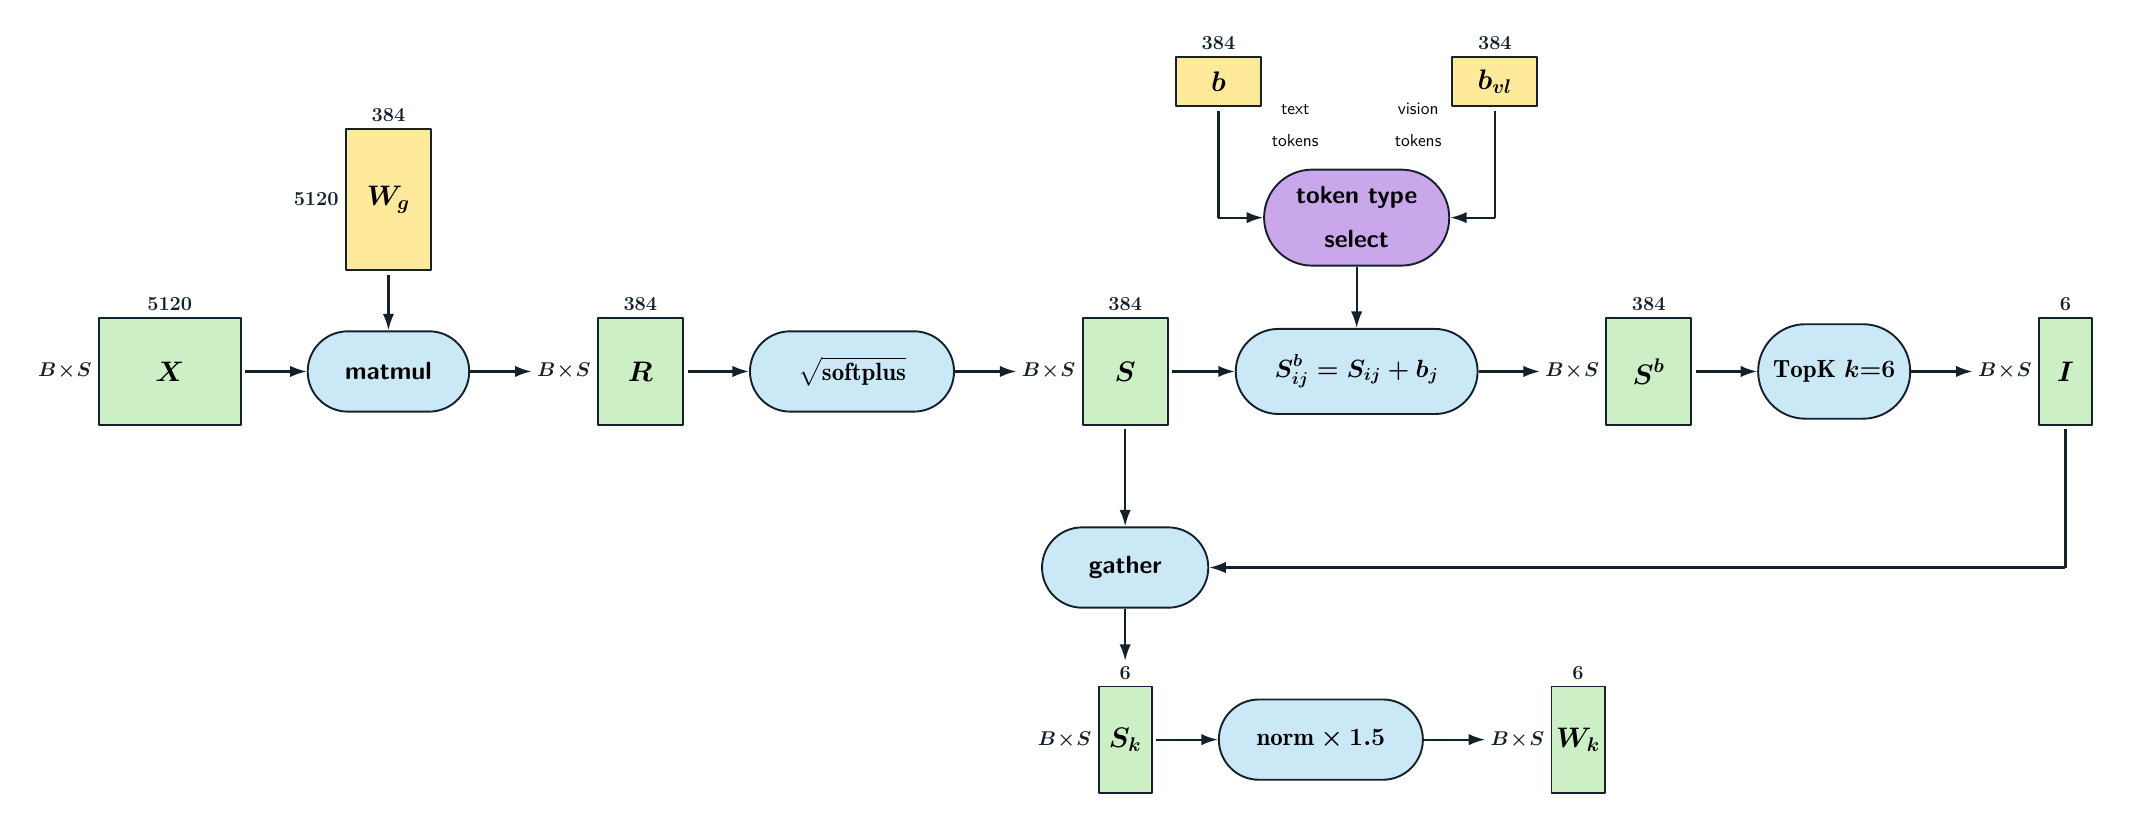
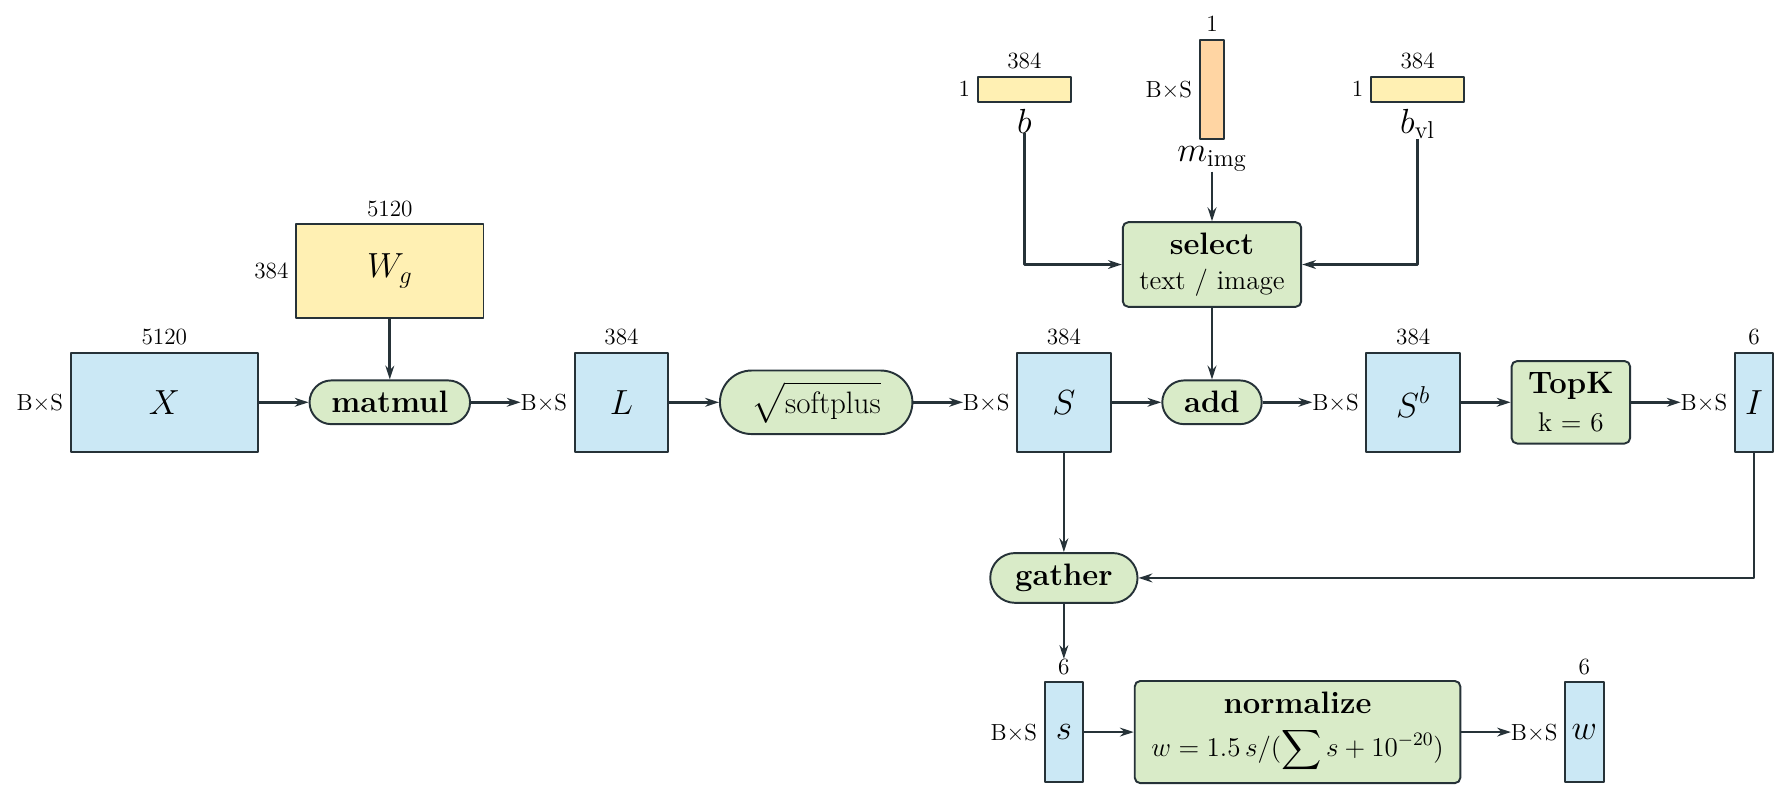
Replace Layer 0 diagrams with approved Python API figures

Changed region(s): [[0.0, 0.0312, 1.0, 0.593], [0.4913, 0.8115, 0.9213, 0.9988], [0.4913, 0.6242, 0.9827, 0.7803]]

diff --git a/docs/models/deepseek-v4.1-flash/02-layer0.md b/docs/models/deepseek-v4.1-flash/02-layer0.md
@@ -2,7 +2,7 @@
 title: Layer 0：从四路残差到局部注意力与 MoE
 model: DeepSeek-V4.1-Flash
 status: published
-updated: 2026-10-14
+updated: 2026-11-04
 order: 2
 ---
 
@@ -15,6 +15,8 @@ order: 2
 $B$ 表示 batch，$S$ 表示本次处理的 token 数，$\mathrm{BxS}=B\times S$ 表示合并后的 token 维。Attention 仍按各自会话计算。
 
 ![图 1：Layer 0 总览](assets/01_layer0_overview.png)
+
+图 1 中蓝色表示数据张量，浅绿色表示计算步骤；粗线表示四路残差的整体传递，细线表示单路数据或系数传递。
 
 Layer 0 先计算 Attention，再计算 MoE；两个子层各有独立的一套 mHC。初始四路来自同一份 embedding，整体形状为 `[BxS,4,5120]`，首次 pre 为 `[1,0,0,0]`。
 
@@ -66,8 +68,6 @@ $X$ 提供投影内容，$r$ 按行广播，对投影结果逐行缩放。
 
 ### 2.2 生成 pre、post、comb
 
-![图 3：生成 pre、post、comb](assets/03_mhc_coefficient_generation.png)
-
 $M$ 以及由它生成的 pre、post、comb 都是随输入变化的动态值。下面的 $s$、$b$ 是训练得到的模型参数，对所有 token 共用；固定常数由算法给定。
 
 | 对象 | 来源与含义 |
@@ -81,6 +81,10 @@ $\sigma$ 为 Sigmoid：
 $$
 \sigma(x)=\frac{1}{1+e^{-x}}
 $$
+
+![图 3.1：生成 pre 与 post](assets/03_1_mhc_pre_post.png)
+
+图 3.1 中，$T$ 表示乘缩放系数、加偏置后的中间结果，$U$ 表示 Sigmoid 的输出；下标区分 pre、post 两条分支。$k=2.0$ 是固定常数，不参与训练。
 
 #### 生成 pre
 
@@ -121,6 +125,10 @@ $$
 $$
 
 #### 生成 comb
+
+![图 3.2：生成 comb](assets/03_2_mhc_comb.png)
+
+图 3.2 按上行从左到右、下行从右到左阅读。$A_0$ 是重排后的矩阵，$A_1$、$A_2$、$A_3$ 分别表示行 Softmax、加 $c$、首次列归一化后的结果；$R$ 是后续迭代中行归一化后的中间结果。回环标记 `repeat 19` 表示该阶段共执行 $19$ 轮行、列归一化，包含图中展示的一轮。
 
 先得到 $C_0:[\mathrm{BxS},16]$：
 
@@ -758,7 +766,7 @@ W_{2,i,e}=W_{2,I_{i,e}},\qquad
 W_{3,i,e}=W_{3,I_{i,e}}
 $$
 
-图 11、图 12 黄色矩阵旁的尺寸采用行向量乘法视角 `[输入,输出]`，所以写作 $5120\times2304$ 或 $2304\times5120$；正文则始终采用参数存储视角 `[输出,输入]`，计算时显式写转置。两种标法描述的是同一组矩阵。
+图 11、图 12 与正文统一采用参数存储视角 `[输出,输入]`，计算时显式写转置。
 
 这里的 gather 是**逻辑索引关系**，不表示为每个 token 复制六份完整参数。参考实现反过来按 expert id 统计 token 数，用 `where(indices == expert_id)` 收集属于该专家的 token，再批量调用一次 expert。多卡时 $384$ 个 routed experts 按 rank 切分，各 rank 计算自己的局部专家后对 FP32 输出累加器做 `all_reduce`；shared expert 在各 rank 本地执行。[核查：固定 revision 的 `MoE`](https://huggingface.co/deepseek-ai/DeepSeek-V4.1-Flash/blob/5254448103b6254fc646dacbca1cbbf20e9216c1/inference/model.py#L1095-L1145)
 
@@ -811,7 +819,7 @@ Y_i=\sum_{e=0}^{5}Y_{i,e}+Y_{i,s}
 },\qquad Y:[N,5120]
 $$
 
-原始交付图曾把两处 Gate 上限误写为 $0$；图 12 已依据官方 `clamp(gate,max=10)` 修正为 $10$，其余结构保持不变。[核查：固定 revision 的 `Expert`](https://huggingface.co/deepseek-ai/DeepSeek-V4.1-Flash/blob/5254448103b6254fc646dacbca1cbbf20e9216c1/inference/model.py#L1071-L1092)
+图 12 中两条专家通路的 Gate 上界均为 $10$，与参考实现的 `clamp(gate,max=10)` 一致。[核查：固定 revision 的 `Expert`](https://huggingface.co/deepseek-ai/DeepSeek-V4.1-Flash/blob/5254448103b6254fc646dacbca1cbbf20e9216c1/inference/model.py#L1071-L1092)
 
 ### 5.4 参数量
 
